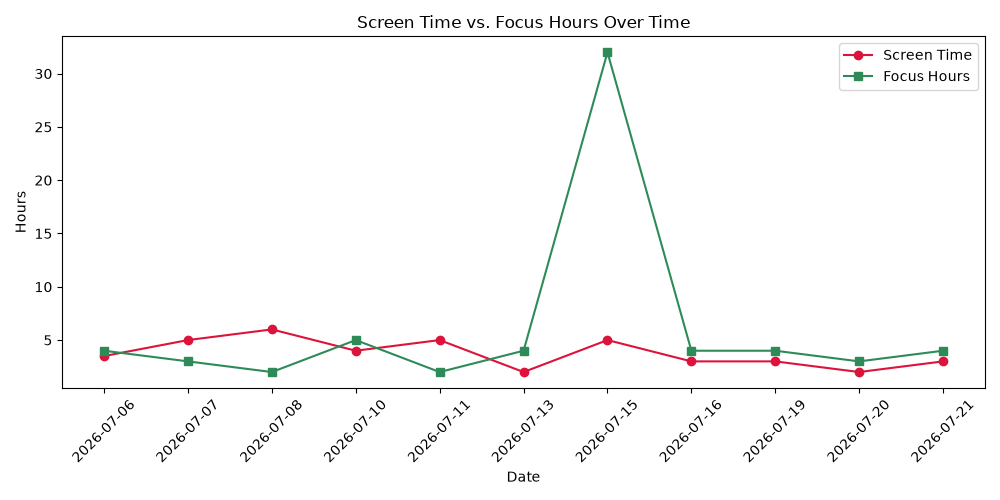
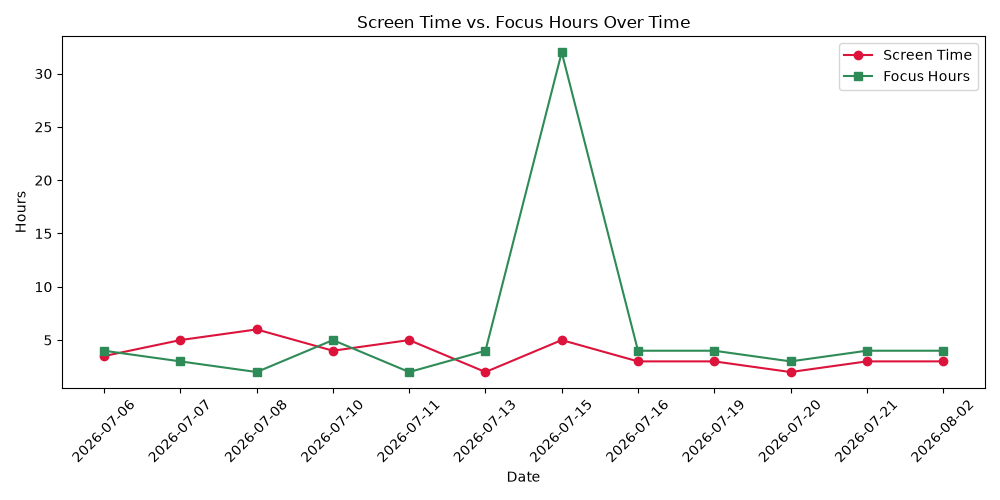
Add data for day 12

diff --git a/README.md b/README.md
@@ -21,3 +21,5 @@
 - Day 10 Update: 2026-07-20
 
 - Day 11 Update: 2026-07-21
+
+- Day 12 Update: 2026-08-02
